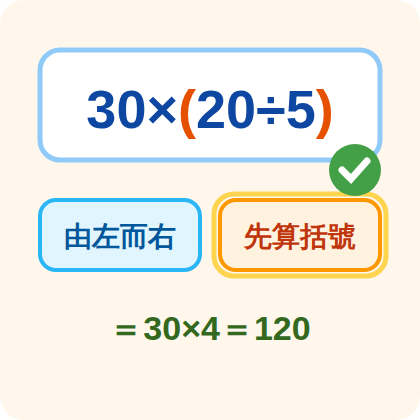
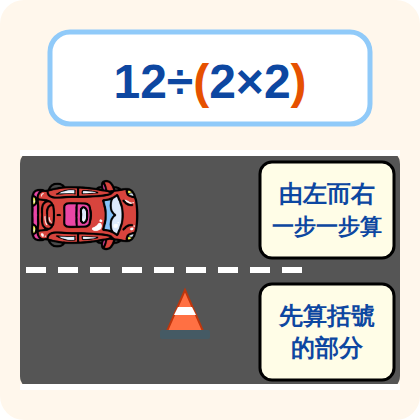
game(MA4084): 改為雙車道賽車選答
- MA4084 改用 RacingOrderQuestion（沿用 MA4081 擴充的 RacingCar）
- 題庫依 issue 25 題重新產生並驗算，更新縮圖
- OrderChoiceQuestion 保留給 MA4087、MA408A 使用

Claude-Session: https://claude.ai/code/session_012ZW66BmPEj1b9mU7xBzegW

diff --git a/src/features/games-oneoff/Grade4/MA4084.vue b/src/features/games-oneoff/Grade4/MA4084.vue
@@ -1,6 +1,7 @@
 <template>
-  <OrderChoiceQuestion
+  <RacingOrderQuestion
     :game-data="gameData"
+    :game-id="gameId"
     :game-config="gameConfig"
     :intro-text="introText"
     @play-effect="$emit('play-effect', $event)"
@@ -10,12 +11,13 @@
 </template>
 
 <script>
-import OrderChoiceQuestion from "./games/Mixed/OrderChoiceQuestion.vue";
+import RacingOrderQuestion from "./games/Mixed/RacingOrderQuestion.vue";
 
-// 乘與除的併式（觀念題）：1 關抽 5 題，選「由左而右／先算括號」，答對後看完整解題過程
+// 乘與除的併式（觀念題）：賽車選答，1 關抽 5 題，開進「由左而右一步一步算／先算括號的部分」，
+// 答對後看完整解題過程
 export default {
   name: "MA4084",
-  components: { OrderChoiceQuestion },
+  components: { RacingOrderQuestion },
   props: {
     gameData: { type: Object, required: true },
     gameId: { type: String, required: true },
